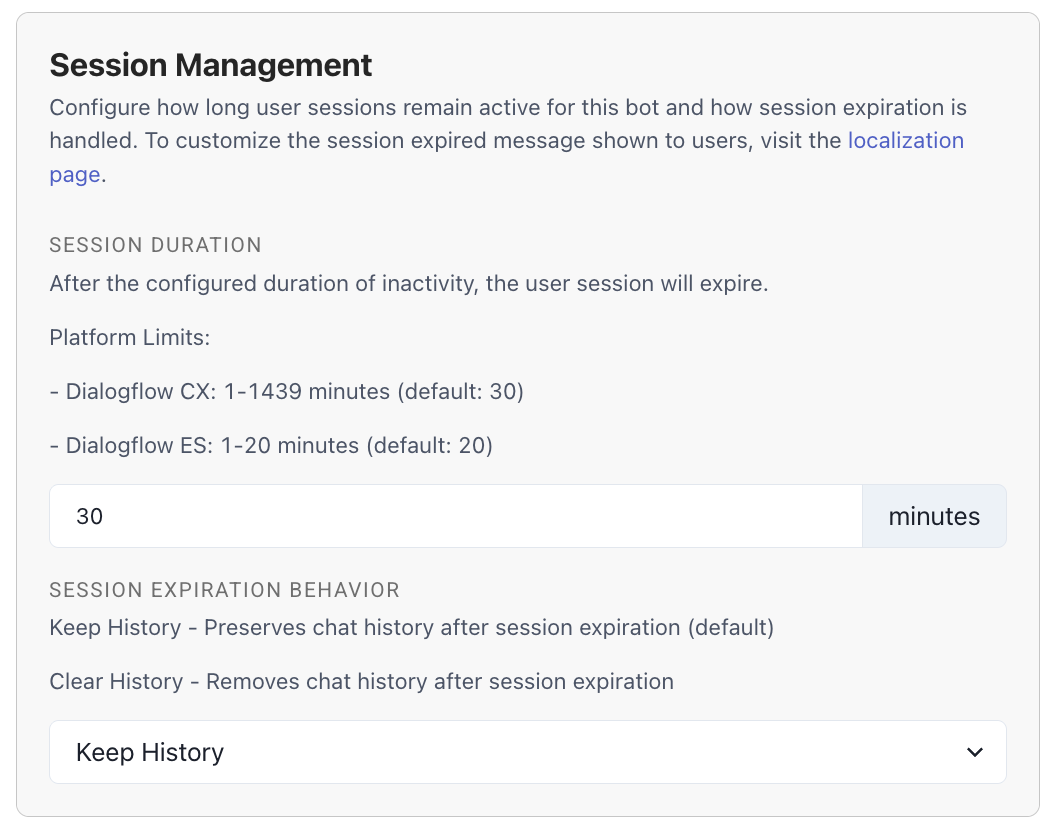
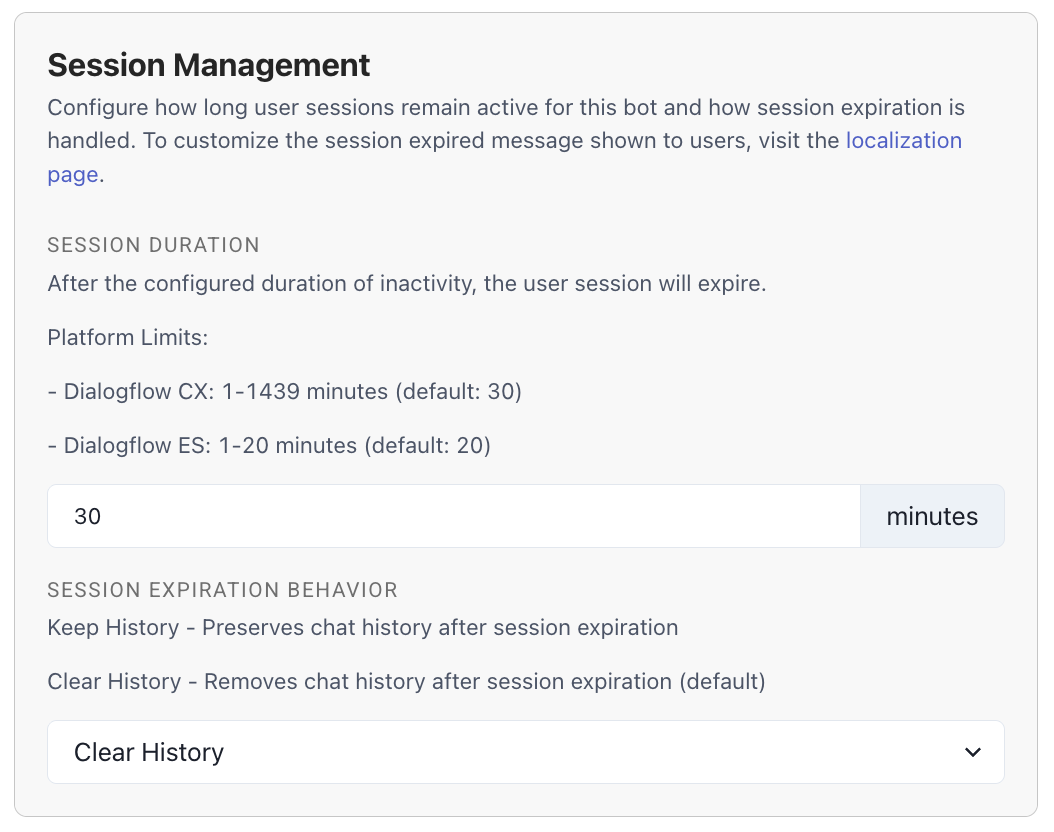
feat: update session management docs to reflect recent changes

diff --git a/docs/advanced/session-management.md b/docs/advanced/session-management.md
@@ -25,7 +25,7 @@ When the user session expires, two different behaviors can be configured, "Keep 
 - If the user does not interact with the chat during a session. 
 - If the user is currently in a live chat with a human agent and their session expires. This ensures the human conversation remains uninterrupted.
 
-### Keep History (default)
+### Keep History
 
 This will preserve the conversation history from the previous session and a message is pushed to the chat to act as a divider between the sessions. After the divider is added to the chat, the configured bot prompt is triggered in the new session.
 
@@ -33,7 +33,7 @@ This will preserve the conversation history from the previous session and a mess
 
 "Your session has expired" is the default message if a custom one is not set.
 
-### Clear History
+### Clear History (default)
 
 Conversation history is cleared and the configured bot prompt is triggered in the new session. This behavior is the same as if the user clicked the Clear History button.
 